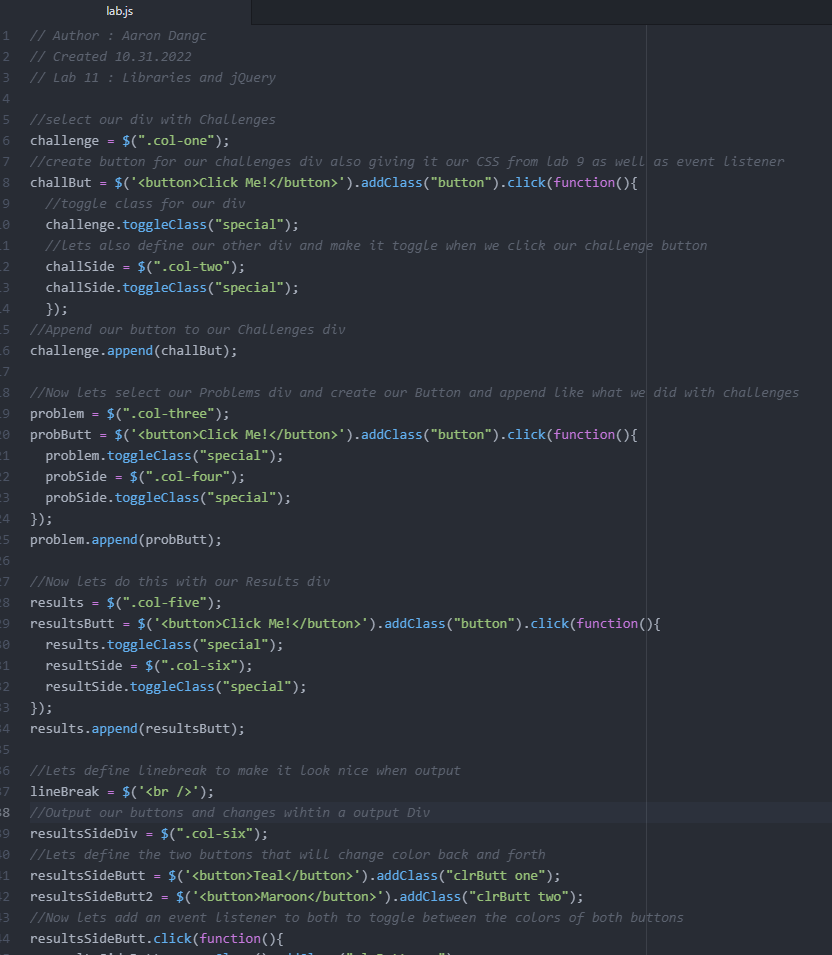
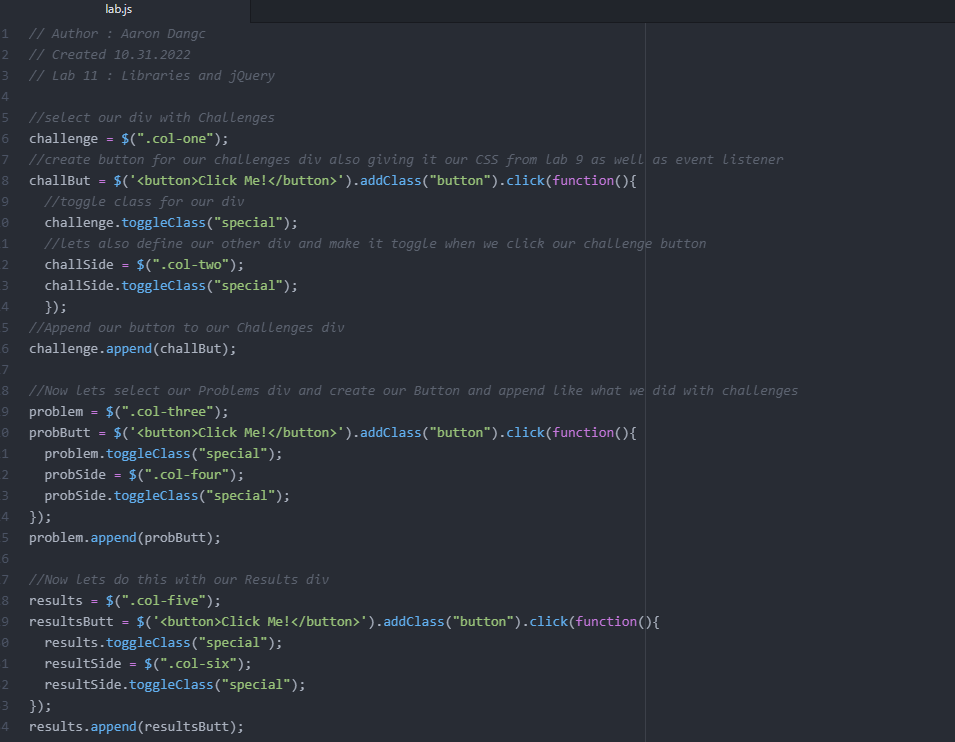
changed image
image was too big so chose smaller one that looks better on webpage

diff --git a/lab11/index.html b/lab11/index.html
@@ -67,17 +67,25 @@
 		<div class="grid">
 			<div class="col-one">
 				<h1>Challenges</h1>
+				<br>
+				<p class="content">In terms of challenges I faced with this lab would have to say getting used to jQuery as well as learning the syntax and documentation took some getting use to. But after doing so it opened my perspective with how easier it is than just vanilla JS.</p>
 			</div>
-			<div class="col-two"></div>
+			<div class="col-two"><img src="img/lab11js.png" alt="jslab11"></div>
 			<div class="col-three">
 				<h1>Problems</h1>
+				<br>
+				<p class="content">Problems that I faced in this lab were about syntax as well as some CSS issues. Forgot adding space CSS specifes class in another element so I removed that and my problem was fixed. But that much pretty much summarizes my problems with this lab.</p>
 			</div>
-			<div class="col-four"></div>
+			<div class="col-four">
+				<img src="img/csslab11.png" alt="csslab11">
+			</div>
 			<div class="col-five">
 				<h1>Results</h1>
+				<br>
+				<p class="content">The results of this lab results in 5 buttons that all serve some purpose. The first three buttons are for each section of the Challenges, Problems and Results div. Clicking on the div will change the CSS of these divs and the adjacent ones as well. Than finally Task X was the two colored buttons that change color with one another. But overall I learned about jQuery and how useful and powerful it is making my code more concise and not as long than compared to vanilla JS.</p>
 			</div>
 			<div class="col-six" id = "output">
-				
+
 			</div>
 		</div>
 
